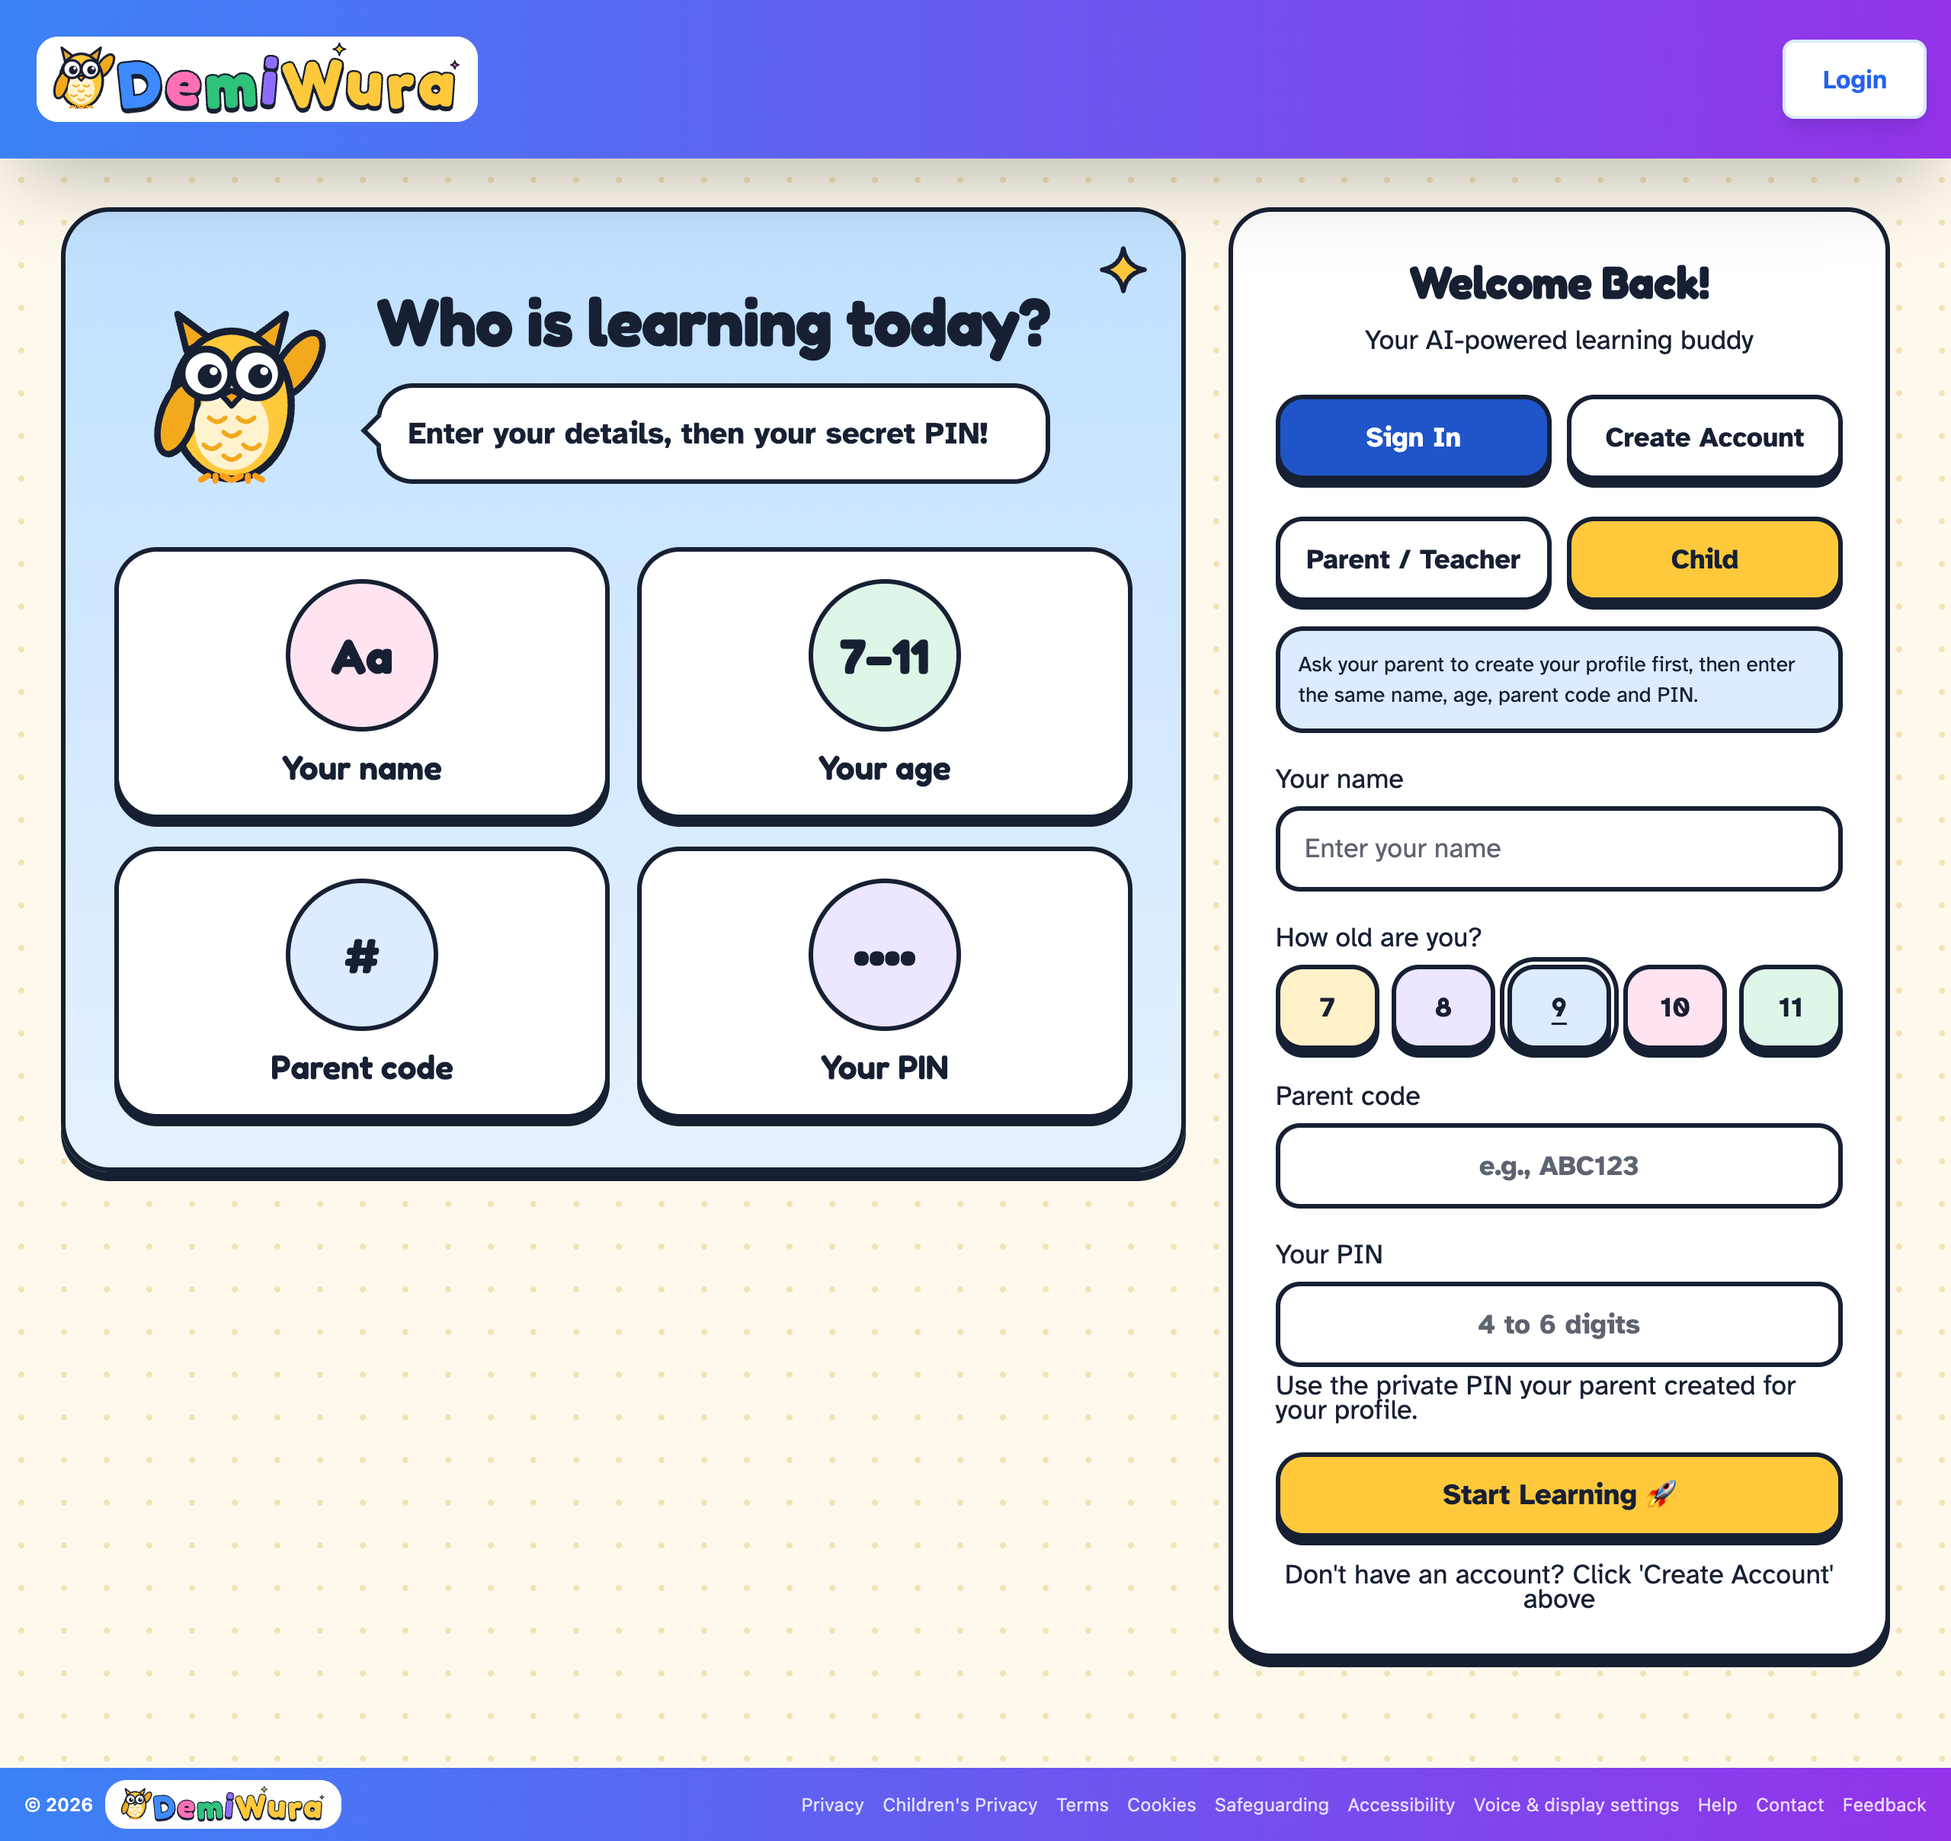
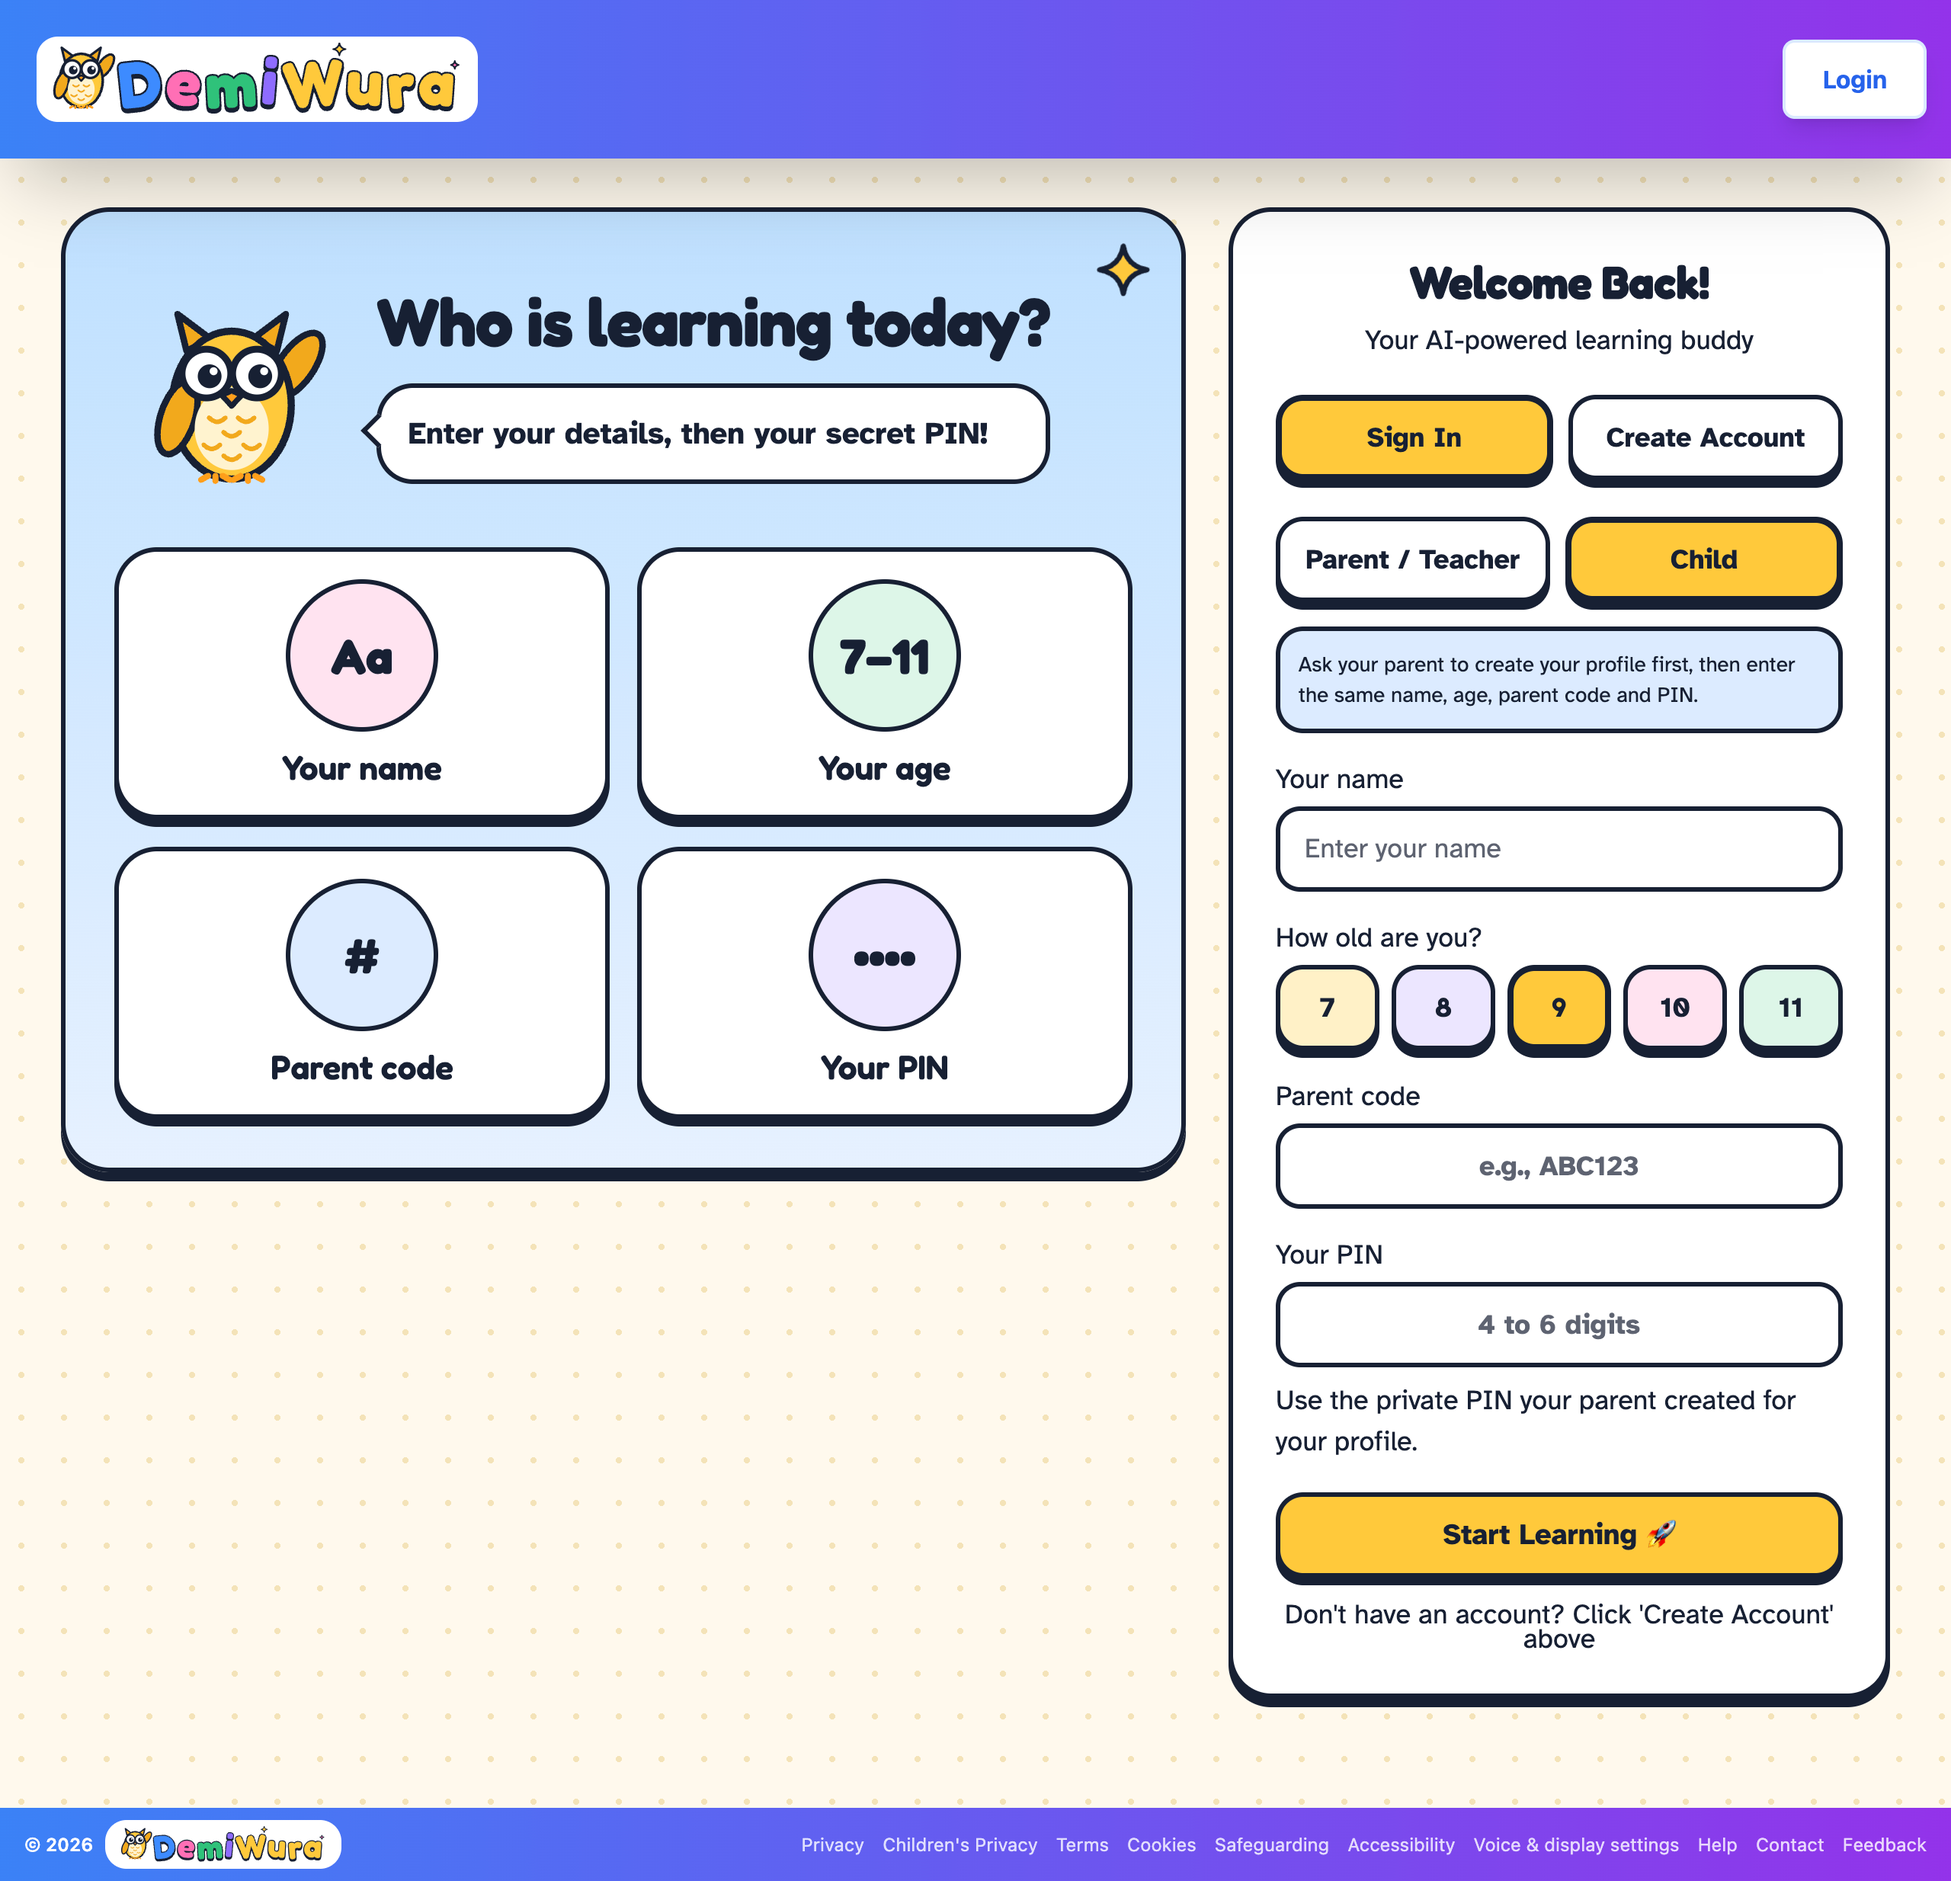
Align sign-in selected states and PIN help spacing

diff --git a/components/LoginView.tsx b/components/LoginView.tsx
@@ -290,6 +290,7 @@ const LoginView: React.FC<LoginViewProps> = ({ onLogin }) => {
             type="button"
             onClick={() => { setMode('login'); setError(null); setSuccessMessage(null); }}
             data-active={mode === 'login'}
+            aria-pressed={mode === 'login'}
             className={`flex-1 py-2 rounded-md text-sm font-medium transition-all ${
               mode === 'login' 
                 ? 'bg-white shadow text-blue-600' 
@@ -302,6 +303,7 @@ const LoginView: React.FC<LoginViewProps> = ({ onLogin }) => {
             type="button"
             onClick={() => { setMode('register'); setLoginAs('parent'); setError(null); setSuccessMessage(null); }}
             data-active={mode === 'register'}
+            aria-pressed={mode === 'register'}
             className={`flex-1 py-2 rounded-md text-sm font-medium transition-all ${
               mode === 'register' 
                 ? 'bg-white shadow text-purple-600' 
@@ -391,6 +393,7 @@ const LoginView: React.FC<LoginViewProps> = ({ onLogin }) => {
                 type="button"
                 onClick={() => { setLoginAs('parent'); setError(null); setSuccessMessage(null); setTurnstileToken(''); }}
                 data-active={loginAs === 'parent'}
+                aria-pressed={loginAs === 'parent'}
                 className={`flex-1 py-2 rounded-md text-sm font-medium transition-all ${
                   loginAs === 'parent'
                     ? 'bg-white shadow text-purple-600'
@@ -403,6 +406,7 @@ const LoginView: React.FC<LoginViewProps> = ({ onLogin }) => {
                 type="button"
                 onClick={() => { setLoginAs('child'); setError(null); setSuccessMessage(null); setTurnstileToken(''); }}
                 data-active={loginAs === 'child'}
+                aria-pressed={loginAs === 'child'}
                 className={`flex-1 py-2 rounded-md text-sm font-medium transition-all ${
                   loginAs === 'child'
                     ? 'bg-white shadow text-blue-600'
@@ -440,6 +444,7 @@ const LoginView: React.FC<LoginViewProps> = ({ onLogin }) => {
                         type="button"
                         onClick={() => setAge(ageOption)}
                         data-active={age === ageOption}
+                        aria-pressed={age === ageOption}
                         className={`p-3 rounded-lg border-2 transition-all text-center font-bold ${
                           age === ageOption
                             ? 'border-blue-500 bg-blue-50 text-blue-700'
@@ -477,7 +482,7 @@ const LoginView: React.FC<LoginViewProps> = ({ onLogin }) => {
                     required
                     autoComplete="off"
                   />
-                  <p className="text-xs text-gray-500 mt-1">
+                  <p className="sunny-pin-help text-xs text-gray-500 mt-1">
                     Use the private PIN your parent created for your profile.
                   </p>
                 </div>

diff --git a/components/SignIn.css b/components/SignIn.css
@@ -64,8 +64,7 @@
 .sunny-sign-in-emblem { display: none; }
 .sunny-sign-in :is(.sunny-auth-tabs, .sunny-login-type) { display: flex; gap: 10px; padding: 0; background: transparent; }
 .sunny-sign-in :is(.sunny-auth-tabs, .sunny-login-type) button { flex: 1 1 0; padding: 10px 8px; min-height: 56px; }
-.sunny-sign-in .sunny-auth-tabs button[data-active='true'], .sunny-sign-in button[type='submit'] { background: #1E55C8; color: #fff; }
-.sunny-sign-in .sunny-login-type button[data-active='true'] { background: var(--signin-gold); }
+.sunny-sign-in button[type='submit'] { background: #1E55C8; color: #fff; }
 .sunny-sign-in button[type='submit'] { min-height: 56px; font-size: 1.1875rem; }
 .sunny-sign-in[data-mode='login'][data-login-as='child'] button[type='submit'] { background: var(--signin-gold); color: var(--signin-ink); }
 .sunny-sign-in .relative input { padding-right: 88px; }
@@ -81,7 +80,8 @@
 .sunny-sign-in .sunny-age-options button:nth-child(3) { background: var(--signin-sky); }
 .sunny-sign-in .sunny-age-options button:nth-child(4) { background: var(--signin-pink); }
 .sunny-sign-in .sunny-age-options button:nth-child(5) { background: var(--signin-leaf); }
-.sunny-sign-in .sunny-age-options button[data-active='true'] { outline: 3px solid var(--signin-outline); outline-offset: 2px; text-decoration: underline; text-underline-offset: 4px; }
+.sunny-sign-in :is(.sunny-auth-tabs, .sunny-login-type, .sunny-age-options) button[aria-pressed='true'] { background: var(--signin-gold); color: var(--signin-ink); border-width: 4px; }
+.sunny-sign-in .sunny-pin-help { line-height: 1.5; margin-top: .5rem; }
 /* Parent management stays white and calm; only the child choices become picture cards. */
 .sunny-child-selector { display: grid; grid-template-columns: minmax(0, 1fr); gap: 24px; border: 3px solid var(--signin-outline); border-radius: 28px; padding: 28px; box-shadow: 0 6px 0 var(--signin-outline); background: var(--signin-paper); }
 .sunny-child-selector > * { grid-column: 1 / -1; min-width: 0; margin-block: 0; }

diff --git a/components/LoginView.test.tsx b/components/LoginView.test.tsx
@@ -35,6 +35,23 @@ beforeEach(() => {
 afterEach(() => vi.restoreAllMocks());
 
 describe('sign-in behaviour through the redesigned controls', () => {
+  it('announces the selected mode, sign-in type and age as pressed', async () => {
+    renderLogin();
+    await screen.findByRole('heading', { name: 'Welcome Back!' });
+    expect(screen.getByRole('button', { name: 'Sign In', exact: true, pressed: true })).toBeTruthy();
+    fireEvent.click(screen.getByRole('button', { name: 'Create Account', exact: true, pressed: false }));
+    expect(screen.getByRole('button', { name: 'Create Account', exact: true, pressed: true })).toBeTruthy();
+    fireEvent.click(screen.getByRole('button', { name: 'Sign In', exact: true, pressed: false }));
+    expect(screen.getByRole('button', { name: 'Parent / Teacher', pressed: true })).toBeTruthy();
+    fireEvent.click(screen.getByRole('button', { name: 'Child', exact: true, pressed: false }));
+    expect(screen.getByRole('button', { name: 'Parent / Teacher', pressed: false })).toBeTruthy();
+    expect(screen.getByRole('button', { name: 'Child', exact: true, pressed: true })).toBeTruthy();
+    expect(screen.getByRole('button', { name: '9', exact: true, pressed: true })).toBeTruthy();
+    fireEvent.click(screen.getByRole('button', { name: '10', exact: true, pressed: false }));
+    expect(screen.getByRole('button', { name: '10', exact: true, pressed: true })).toBeTruthy();
+    for (const age of [7, 8, 9, 11]) expect(screen.getByRole('button', { name: String(age), exact: true, pressed: false })).toBeTruthy();
+  });
+
   it('keeps numeric PIN sanitisation and the child-session payload', async () => {
     const onLogin = vi.fn();
     const profile = { id: 'example-learner', role: 'student' };

diff --git a/design/redesign-2026/review/sign-in/README.md b/design/redesign-2026/review/sign-in/README.md
@@ -39,6 +39,7 @@ The added data attributes are styling hooks; the added aria-hidden guide is
 ordinary decoration, not an announcement.
 
 New regression tests use nonexistent synthetic fixtures and mocked services.
+The review follow-up also verifies that pressed states track mode/type/age changes.
 They cover numeric PIN sanitisation and payloads, validation/server errors,
 Turnstile gating and token forwarding, parent sign-in and password visibility
 labels, registration/email verification, verification-return/reset messages,
@@ -50,8 +51,8 @@ announcements. They do not stand in for a real account sign-in test.
 Node 20, matching project CI:
 
 - `npm run lint`: passed, zero errors/warnings.
-- `npm test -- --run`: passed, 225 tests in 47 files.
-- `npm run build`: passed, `precache 125 entries (3865.02 KiB)`.
+- `npm test -- --run`: passed, 226 tests in 47 files.
+- `npm run build`: passed, `precache 125 entries (3865.05 KiB)`.
 - `git diff --check`: passed.
 
 Local dependencies were restored with `npm ci` from the unchanged lockfile after
@@ -101,11 +102,24 @@ preflight rejects Origin `http://127.0.0.1:3013` with HTTP 403. No origin header
 Turnstile requirements, authentication handlers, secrets or server safeguards
 were changed to work around that restriction.
 
-At the user's request, production child sign-in was opened separately in Chrome
-for Testing for the user to enter a test account directly. No account details or
-credentials have been recorded in these notes or screenshots. A successful real
-account sign-in has not yet been observed; this check remains pending. An online
-check would exercise production's existing UI/backend, not this undeployed branch.
+The owner has explicitly deferred real child and parent sign-in tests until after
+merging PR #7 first, then PR #8, and requested that PR #8 be marked ready for
+review after these style checks. No pre-merge real-account sign-in pass is claimed.
+No account details or credentials are recorded in these notes or screenshots.
+
+## PR review follow-up
+
+- All selected Sign In / Create Account, Parent / Teacher / Child and age choices
+  share gold `#FFC93C`, ink `#172033` and a 4px ink border. Main submit styles are
+  unchanged. The existing high-contrast override remains available.
+- Each of those choices now exposes its current state through `aria-pressed`.
+  No click handler, validation, Turnstile or authentication logic changed.
+- PIN helper text now has line height 1.5 and an 8px top margin. Browser computed
+  values at 1280px and 390px: 18px font, 27px line height, 8px margin, no horizontal
+  overflow. Gold/ink/4px selection styling was checked in the browser for both
+  account modes, sign-in types and the selected age.
+- The four after sign-in screenshots below were refreshed at both widths.
+  Child-picker and all before screenshots remain unchanged by this follow-up.
 
 ## Before and after
 
